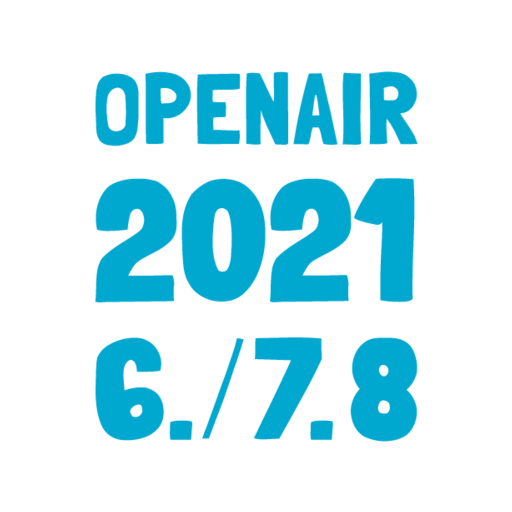
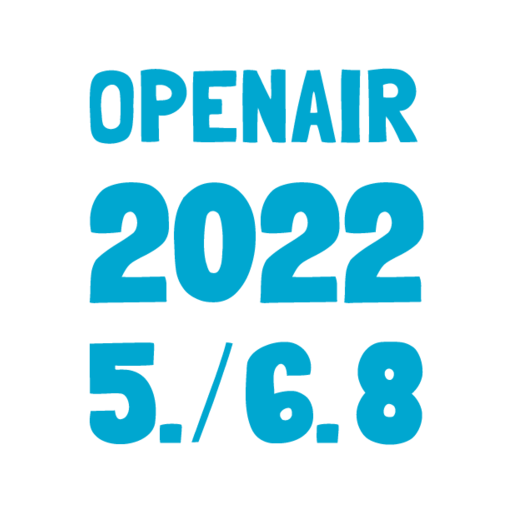
staging build

diff --git a/resources/views/partials/misc/claim.blade.php b/resources/views/partials/misc/claim.blade.php
@@ -1,3 +1,3 @@
 <div class="claim">
-<svg xmlns="http://www.w3.org/2000/svg" width="188.9" height="216.7" viewBox="0 0 188.9 216.7"><path fill="currentColor" d="M24.1 7.4c.3.6.5 1.2.6 1.8.1.6.2 1.2.3 1.9.1 1 .1 2 .1 2.9v2.9c0 2.1-.1 4.1 0 6.1 0 2 0 4-.2 6l-.2 1.9c-.1 1.4-.3 2.8-.6 4.2-.4 1.4-.9 2.7-1.6 3.8-.7.9-1.5 1.7-2.6 2.3-1.1.6-2.2 1-3.5 1.3-1.1.3-2.2.5-3.3.6-1.1.1-2.3.1-3.4 0l-2.4-.3c-.8-.1-1.5-.4-2.2-.7-.7-.3-1.3-.7-1.9-1.2-.6-.5-1-1.1-1.4-1.9-.6-1-.9-2-1.1-3.2-.2-1.1-.3-2.3-.3-3.4-.1-3.1-.2-6.1-.4-9.2-.1-3.1 0-6.2.2-9.3 0-1.8.3-3.5.7-5.3.4-1.8 1.2-3.4 2.4-4.7.4-.5.8-.9 1.4-1.2C6 2.1 7.4 1.6 8.9 1.3c1.5-.3 3-.4 4.5-.3 1.5.1 3 .3 4.4.8 1.4.5 2.7 1.1 3.9 2 1.1 1 2 2.2 2.4 3.6zm-6.3 14.4l-.1-4s0-.4-.1-1.2c-.1-.8-.1-1.5-.1-2.2-.1-1.1-.4-2.1-.9-3s-1.3-1.6-2.2-2c-.8-.3-1.6-.4-2.4-.2-.8.2-1.6.5-2.2 1-1.4 1.1-2.3 2.4-2.8 4.1-.3 1.5-.5 3.1-.6 4.7-.1 1.7 0 3.3 0 5 .2 1.4.3 2.8.4 4.2.2 1.4.4 2.8.8 4.1.4.8 1 1.4 1.7 1.8.7.4 1.6.7 2.4.7.9.1 1.7-.1 2.6-.4.9-.3 1.6-.8 2.2-1.4.4-.5.6-.9.8-1.2.2-.3.3-.6.3-1v-1.3c0-.5 0-1.2.1-2 0-.8.1-1.5.1-2.1v-3.6zm38-8.4v.9c0 .3 0 .5-.1.7-.2 1.9-.9 3.6-1.9 5.2s-2.3 2.9-3.7 4c-1.5 1.1-3.1 1.9-5 2.4-1.8.5-3.7.6-5.5.3 0 .6.1 1.1.1 1.6v6.3c0 1.7.1 4 .1 6.8v.1h-.2c-.6.2-1.2.3-2.1.3-.8.1-1.7.1-2.7.1h-2.7c-.9 0-1.7-.1-2.4-.2-.1-2.9-.2-6-.2-9.4V22.1 11.4c0-3.6-.1-7-.2-10.3 1.6-.4 3.4-.7 5.3-.9 1.9-.2 3.8-.2 5.7-.1 1.9.2 3.8.5 5.6 1 1.8.5 3.4 1.3 4.8 2.4 1.4 1 2.5 2.4 3.5 3.9 1 1.8 1.5 3.7 1.6 6zm-10.3-2.5c-1-.8-2.1-1.3-3.4-1.5-1.3-.2-2.6-.2-3.8.1l-.2.1v4.6c0 .8.1 1.5.1 2.3.1.7.2 1.4.4 2h.2c.6 0 1.3-.1 2-.1s1.4-.1 2.1-.1c.7-.1 1.4-.2 2-.4.6-.2 1.2-.6 1.7-1 .3-.4.5-.9.7-1.5.1-.5.2-1.1.1-1.7-.1-.5-.3-1.1-.6-1.5-.4-.6-.8-1-1.3-1.3zm38.9 23.4v.1c.1 1.3.1 2.6.1 3.9 0 1.4-.2 2.6-.5 3.8-4 0-8.1 0-12.2.1-4.2.1-8.1 0-11.9-.3 0-3.4 0-6.8-.1-10.2-.1-3.4-.1-6.7-.2-10.1v-10c0-3.3.2-6.7.4-10.1 1.5-.1 3.2-.1 5-.2 1.8-.1 3.6-.1 5.4-.1 1.8 0 3.6-.1 5.3-.1 1.7 0 3.2-.1 4.5-.1s2.3 0 3.1.1c.8 0 1.2.1 1.2.1.2 1.4.2 2.8.1 4.2-.1 1.4-.1 2.8-.1 4.2v.1c-1.3.3-2.5.4-3.8.5-1.3.1-2.6.1-3.9.1h-3.9c-1.3 0-2.6.1-3.9.2h-.2l-.1.1c0 1.1 0 2.3-.1 3.5-.1 1.2-.1 2.3.2 3.4l.1.1c1.2.1 2.4.1 3.6.1 1.2 0 2.4 0 3.7.1v.1c.2 1.3.3 2.7.2 4-.1 1.3-.1 2.7-.1 4.2-.6.2-1.3.2-2 .3h-2.2c-.7 0-1.3 0-1.9.1-.6 0-.9.1-1.1.3-.2 1.1-.3 2.4-.2 3.8.1 1.4.1 2.6.2 3.5L69 34c2.6 0 5.2.1 7.7.2s5.1.2 7.7.1zm26.5 8.3c-.8 0-1.7-.1-2.7-.1-1-.1-1.9-.1-2.7-.1-1.3-2.9-2.6-5.7-3.9-8.5-1.3-2.7-2.4-5.4-3.3-7.9l-.6-1.8c-.2-.4-.3-.8-.4-1.2-.1-.4-.2-.6-.3-.6 0 0-.1.5-.1 1.4-.1.9-.1 2.1-.1 3.6s-.1 3.1-.1 4.8V39.9c0 .8 0 1.6.1 2.3-.4.1-.9.2-1.3.2s-.9.1-1.3.1c-.9 0-1.9-.1-2.9-.2s-1.9-.2-2.8-.2V38c0-3.7 0-7.3-.1-10.7-.1-3.4-.1-6.9-.1-10.6 0-2.7 0-5.4.1-8.1.1-2.7.2-5.2.4-7.8.4-.1.8-.1 1.3-.2.5 0 .9-.1 1.4-.1h1.2c.6 0 1.1.1 1.7.1.6.1 1 .1 1.4.2.4.1.6.2.6.2.3.7.5 1.3.8 1.8.2.5.5.9.7 1.4.2.4.5.9.7 1.4.3.5.6 1.2.9 2 .1.2.3.6.5 1.1.3.6.6 1.2.9 1.9.4.7.7 1.5 1.1 2.3.4.8.8 1.5 1.1 2.2.3.6.6 1.2.9 1.7.2.5.4.7.4.7.1-.1.2-.5.3-1.2.1-.7.1-1.4.1-2.1 0-1.6 0-3-.1-4.4-.1-1.4-.1-2.7-.1-4.2V3.1c0-.8 0-1.8.1-2.7 1.3-.2 2.8-.4 4.2-.4 1.5 0 2.8.1 3.9.4v19c0 1.7.1 3.3.1 5V42c-.1 0-.3.1-.5.2-.4.4-.9.4-1.5.4zm26.5-21l4.4 20.6v.1c-1.2.2-2.5.3-3.9.3-1.4-.1-2.8-.2-4-.5h-.1c-.2-.6-.5-1.4-.7-2.2l-.6-2.7c-.2-.9-.4-1.8-.7-2.6-.2-.8-.5-1.5-.8-2.1-.5-.1-.9-.1-1.2-.1h-2.4c-.3.6-.5 1.4-.7 2.2-.2.8-.4 1.7-.5 2.7l-.6 2.7c-.2.9-.5 1.6-.8 2.3h-.2c-.3.1-1.1.1-2.4 0-1.3-.1-3.2-.1-5.9-.1l-.1-.1c.1-.3.2-1 .4-2.3.2-1.3.5-2.9.8-4.9s.8-4.3 1.3-6.9c.5-2.6 1.1-5.4 1.7-8.3.7-2.9 1.4-6 2.2-9.2.8-3.2 1.7-6.4 2.6-9.5.3 0 .6-.1.9-.1h3.2c.8 0 1.9-.1 3.2-.2.1.5.3 1.3.6 2.3.3 1 .5 2.2.8 3.5.3 1.3.6 2.7.9 4.2.3 1.5.7 2.9 1 4.3.3 1.4.6 2.6.9 3.8.3 1.2.5 2.1.7 2.8zm-6 3.8c-.4-3.4-.7-6-1-7.9-.3-1.9-.6-3.2-.8-3.8-.2-.7-.4-.8-.6-.4-.2.4-.4 1.1-.6 2.3s-.4 2.6-.6 4.3c-.2 1.7-.5 3.6-.7 5.6.7 0 1.4.1 2.1 0 .7 0 1.4-.1 2.2-.1zM154.3.8h1.4V1c0 3.4-.1 6.8-.1 10.2-.1 3.4-.2 6.9-.2 10.3-.1 3.4-.1 6.9 0 10.3 0 3.4.2 6.8.4 10.1-.3.3-1 .5-2 .6-1 .1-2.1.1-3.2 0-1.2 0-2.3-.1-3.3-.1-1.1-.1-1.8 0-2.2.1.3-3.5.4-7.1.4-10.7 0-3.6-.1-7.1-.2-10.6s-.2-7-.2-10.4c0-3.4.1-6.8.5-10.1V.5h1.2c.6.1 1 .1 1.3.1.7 0 1.5.1 2.4.1s2.1.2 3.8.1zm34.6 41.3c-1.3 0-2.9.1-4.5.1-1.7.1-3.4.1-5.2 0h-.1c-.4-.9-.9-2-1.5-3.2-.6-1.3-1.2-2.6-1.9-4s-1.5-2.7-2.3-4.1c-.8-1.3-1.7-2.5-2.5-3.5l-.1-.2c-.1.9-.2 2-.2 3.3 0 1.3 0 2.7.1 4.1.1 1.4.1 2.7.2 4 .1 1.3.1 2.3.2 3-.7.3-1.5.5-2.6.5-1.1.1-2.2.1-3.2.1h-4.5c.1 0 .1-.5.2-1.6 0-1.1.1-2.5.1-4.3v-6.1-7.1c0-2.5-.1-4.9-.1-7.3-.1-2.4-.1-4.6-.1-6.7 0-2-.1-3.8-.1-5.2-.1-1.4-.1-2.4-.2-2.9 2.2-.3 4.6-.6 7.3-.9 2.6-.3 5.4-.3 8.3.1 2.3.1 4.4.8 6.3 2 1.8 1.2 3.3 2.7 4.3 4.5 1 1.8 1.6 3.8 1.6 6 .1 2.2-.5 4.3-1.7 6.3-.7 1.4-1.7 2.6-3 3.5-1.2.9-2.8 1.5-4.7 1.6H178.7v.1c.8 1.5 1.7 2.9 2.7 4.3 1 1.4 1.9 2.9 2.9 4.3.9 1.5 1.8 2.9 2.7 4.5.6 1.7 1.3 3.2 1.9 4.8zM169 9.3c0 .5.1 1.1.1 1.7v3.9c0 .6.1 1.2.1 1.6h.1c.9.1 1.9.1 3 .2 1.1 0 2.1 0 3-.2.7-.2 1.3-.5 1.7-1.2.4-.6.7-1.3.7-2 .1-.7 0-1.5-.2-2.2-.2-.7-.6-1.3-1.2-1.7-.9-.8-2-1.2-3.3-1.1-1.3.2-2.6.5-4 1zM31.8 107.1c4.7-2.3 8.4-4.6 11.1-7 2.7-2.4 4.2-5.5 4.5-9.4.1-1.5 0-3.9-.1-7.2l-.1-.9v-.9c-.4-3.7-1.5-7.1-3.4-10.2-1.8-3-4.4-5.4-7.7-7.2-2.9-1.1-6.7-1.7-11.3-1.7-3.9 0-7.5.5-11 1.6s-6 2.6-7.7 4.6c-1.9 2.2-3.4 4.8-4.4 7.7s-1.5 6-1.5 9.2c0 2.1.2 4.4.7 6.7 1.9.6 3.9.8 6.1.8 3.9 0 7.8-.3 11.7-.8.3-3.6.8-6.5 1.5-8.8.7-2.2 2.2-3.4 4.3-3.4 1.2.1 2.2.8 2.9 2.1.7 1.3 1.1 2.8 1.1 4.5 0 1.4-.3 2.7-.8 4-.5 1.2-1.3 2.1-2.2 2.8-2.1 1.6-4.9 3.5-8.5 5.7-6.2 3.8-10.6 7.2-13.3 10.1-1.4 2.3-2.3 4.7-2.7 7.2-.4 2.5-.6 5.7-.7 9.8 0 2.1-.1 4.9-.4 8.4.3 0 .6 0 1.1.2.4.1 1.1.1 1.8.1l3.3-.2 38-.5c.8 0 1.3 0 1.5-.1.2-.1.3-.3.3-.6-.1-.6-.2-1.4-.2-2.5v-4.6l.3-1.6c0-2.2-.3-4.1-1-5.7-3.1 0-6.8.1-10.9.2-1.9.1-4.7.1-8.5.1-2.9 0-5.1 0-6.6-.1 1.3-2.7 2.5-4.6 3.4-5.8.9-1.2 2-2.3 3.3-3.1 1.2-.9 3.2-2 6.1-3.5zm66.9-22.2c-1.2-6.2-3.8-11.4-7.9-15.7-4.1-4.3-9.4-6.4-16-6.4-3.7 0-6.9.7-9.8 2.2-2.8 1.4-5.4 3.4-7.8 5.9L56 72.1l.1.1c-2.1 3.3-3.5 6.8-4.3 10.5-.8 3.7-1.2 7.7-1.2 11.8 0 1.5.1 3.4.2 5.7l.1 2.6c.1 5.4.5 9.8 1 13.3.6 3.5 2 6.8 4.2 10 2.2 3.1 5.5 5.5 10 7.2 2.3.9 5 1.3 8.2 1.3 5.5 0 10.1-2 13.8-5.9 3.8-3.9 6.6-8.8 8.5-14.7 1.9-5.8 2.8-11.5 2.9-17.1.1-4.3-.1-8.3-.8-12zm-18.9 18.2v-.1c-.1 1.1-.2 2-.2 2.8-.1 3.1-.4 5.3-.9 6.8-.4 1.5-.9 2.6-1.5 3.4-.6.8-1.5 1.2-2.5 1.2-.7 0-1.3-.1-1.9-.3h-.2c-.7-.4-1.5-1.8-2.2-4.2-.1-.4-.2-.9-.5-1.6v.1c-.9-3.5-1.3-7.3-1.3-11.6 0-2.9.2-6.3.5-10.1.2-1.6.4-3.1.6-4.6.2-1.5.5-2.4.9-2.9.3-.5.6-1 1.1-1.4s1-.6 1.6-.7c.2-.1.5-.1.8-.1 1.1 0 2.2.5 3.3 1.6.9 1.5 1.5 3.7 1.9 6.7.4 3 .6 6 .6 9.2 0 2.8 0 4.8-.1 5.8zm54.4 4c4.7-2.3 8.3-4.6 11-7 2.7-2.4 4.2-5.5 4.6-9.4.1-1.5 0-3.9-.1-7.2l-.1-.9v-.9c-.4-3.7-1.5-7.1-3.3-10.2-1.8-3-4.4-5.4-7.8-7.2-2.9-1.1-6.7-1.7-11.3-1.7-3.9 0-7.5.5-11 1.6s-6 2.6-7.7 4.6c-1.9 2.2-3.4 4.8-4.4 7.7s-1.5 6-1.5 9.2c0 2.1.2 4.4.7 6.7 1.9.5 3.9.7 6.1.7 3.9 0 7.8-.3 11.7-.8.3-3.6.8-6.5 1.5-8.8.7-2.2 2.2-3.4 4.3-3.4 1.2.1 2.2.8 2.9 2.1.7 1.3 1.1 2.8 1.1 4.5 0 1.4-.3 2.7-.8 4-.5 1.2-1.3 2.1-2.2 2.8-2.1 1.6-4.9 3.5-8.5 5.7-6.2 3.8-10.6 7.2-13.3 10.1-1.4 2.3-2.3 4.7-2.6 7.2-.4 2.5-.6 5.7-.7 9.8 0 2.1-.1 4.9-.4 8.4.3 0 .6 0 1 .2.4.1 1 .1 1.8.1l3.3-.2 38-.5c.8 0 1.3 0 1.6-.1.2-.1.3-.3.3-.6-.1-.6-.2-1.4-.2-2.5v-4.6l.1-1.6c0-2.2-.3-4.1-1-5.7-3.1 0-6.8.1-10.9.2-1.9.1-4.7.1-8.5.1-2.9 0-5.1 0-6.6-.1 1.3-2.7 2.5-4.6 3.4-5.8.9-1.2 2-2.3 3.3-3.1 1.3-.8 3.4-1.9 6.2-3.4zm44.2 27.7c5.1 0 7.6-.8 7.6-2.3-.1-1.5-.1-3.9-.1-7 0-6.8.2-14.4.5-22.7.4-10 .6-17.6.6-22.7 0-6.7-.2-12.5-.5-17.2-3.7-.3-7.7-.5-12-.5-2.4 0-5.3.1-8.6.2h-1.2c-.4.4-1.7 2.3-3.9 5.7s-4.2 6.8-6 10.2c-1.8 3.4-2.8 5.7-3 6.9 0 .4 1 .9 2.9 1.6 1.9.7 4.1 1.3 6.5 1.8 2.4.5 3.8.8 4.2.8 1.1 0 2-.6 2.9-1.7 0 2.9-.1 7.4-.4 13.5l-.2 3.2c-.4 8.5-.6 14.9-.6 19.2v10c3.7.7 7.4 1 11.3 1zM39.8 198.5l-.2-2c-.2-1.3-.5-2.6-1.1-3.9-.6-1.4-1.3-2.4-2-3.3-.7-.8-1.6-1.5-2.8-2.2-1.1-.7-2.3-1.2-3.5-1.6-.9-.3-2.1-.4-3.7-.4-2 0-4.4.3-7.1 1-1.2.3-2.1.6-2.7.8.1-1.4 0-2.8-.2-4.3l-.1-1.5c-.1-1.4-.2-2.5-.2-3.2 0-1.9.2-3.5.6-4.9.4-1.4 1-2.4 2-3.3.6-.6 1.2-.8 2-.8.6 0 1.2.4 1.9 1.1.9 1 1.5 3 1.6 5.9l3.2-.1H30c2.9 0 5.5-.2 7.8-.6.4-1.5.6-2.9.6-4.2 0-2.6-.7-5-2-7.3s-3.1-4.2-5.4-5.6c-2.3-1.4-5-2.1-8.1-2.1-4.4 0-8.6 1-12.7 2.9s-7 4.4-8.6 7.6l-.6 1.2c-.2.9-.4 2.1-.5 3.7v.7c0 .5-.1 1.2-.2 2.2C.2 180 0 184.1 0 187c0 7.9 1.1 14.4 3.2 19.6 2.1 5.1 5.9 8.2 11.5 9.2.8.1 2.2.2 4 .2 3.9 0 7.5-.7 10.8-2 3.3-1.3 5.9-3.3 7.8-5.9 1.9-2.7 2.7-5.9 2.5-9.6zm-12.6-1.7c.1.3.2.9.2 1.6v1c-.4 1.2-1 2-1.8 2.5-.6.4-1.4.6-2.2.6-.6 0-1.1-.1-1.7-.3-.4-.3-.7-.8-1-1.3-.3-.5-.5-1.1-.5-1.7s.2-1.2.6-1.7c.6-.8 1.4-1.5 2.3-1.9.9-.4 1.8-.6 2.7-.5.8.1 1.3.7 1.4 1.7zm16.7 18.9l12 .1.5-6.2c.1-1.5.2-2.5.2-3 0-.3 0-.6-.1-.9-.1-.3-.1-.4-.2-.5-.8-.4-2.7-.6-5.6-.6-3.1 0-5.4.3-6.9 1v.8l-.1 1v1.7l-.1 2c0 1.7.1 3.2.3 4.6zm22.6-1l4.5-12c.3-.8.6-1.7 1-2.5.3-.8.6-1.7.9-2.5 1.2-3 2.3-6 3.3-9s2.1-6 3.1-9l1.5-4.5c.5-1.5 1-3.1 1.6-4.6 1.2-3.7 2.1-6.4 2.7-8.2.6-1.8.9-3.1 1.2-3.9.1-.3.2-.6.2-.8.1-.2.1-.4.2-.7-.7-.3-1.9-.6-3.7-.7-.4 1.5-.8 3.1-1.2 4.6-.4 1.5-1.4 4.5-2.9 8.9s-2.5 7.4-3.1 9c-1.7 4.5-3 8.1-3.9 10.7-.9 2.7-1.8 5-2.5 7s-2.1 5.7-4 11.2c-.1.2-.2.7-.6 1.5-.3.8-.7 1.6-1 2.5-.3.9-.5 1.6-.7 2.1-.2.5-.3 1-.5 1.3 2.2-.1 3.5-.1 3.8-.2-.1.2 0 .1.1-.2zm27-46.3l21.3.7c-2.3 5-6.4 13.8-12.4 26.3-3.7 7.5-6.8 14-9.4 19.4 1.5.5 3.2.7 5.2.7 1.9 0 3.7-.1 5.1-.2h-.1l4.5-.2 2.6-4.6c7.4-13.3 12.5-22.6 15.3-27.9 2.8-5.3 5.1-10.1 7-14.2 0-2 0-3.5-.1-4.4-.1-.9-.1-2.2-.1-4 0-1.5 0-2.7.1-3.5-4.3-.5-9.6-.7-15.8-.7-2.7 0-6.2.1-10.4.2l-4.9.1-3.6.1c-1.9 0-3.3 0-4 .1v1.7l-.1 1.5c.2 3.7 0 6.7-.2 8.9zm33 47.3l12 .1.5-6.2c.1-1.5.2-2.5.2-3 0-.3 0-.6-.1-.9-.1-.3-.1-.4-.2-.5-.8-.4-2.7-.6-5.6-.6-3.1 0-5.4.3-6.9 1v.8l-.1 1v1.7l-.1 2c-.1 1.7 0 3.2.3 4.6zm61.8-38.8c.2-.9.3-1.9.3-3 0-3.4-.6-6.5-1.8-9.4-1.2-2.9-2.8-4.8-4.6-5.9l-.8-.5c-1.4-.8-2.8-1.3-4.4-1.6-1.5-.3-3.6-.5-6.1-.5-2.2 0-3.9 0-5.2.1-3.1.1-5.8 1-8.1 2.8-2.3 1.7-4 4-5.2 6.6-1.2 2.7-1.8 5.5-1.8 8.4 0 2.1.4 4.2 1.2 6.4.8 2.2 1.9 4.1 3.3 5.7-1.7 1.8-3 3.9-3.9 6.1-.9 2.3-1.4 4.5-1.4 6.8 0 2.1.4 4.2 1.1 6.3.7 2.1 1.7 3.9 3 5.5 1.4 1.8 3.6 3.3 6.5 4.3s5.9 1.6 9.1 1.6c2.9 0 5.6-.4 8.3-1.3 2.6-.9 4.6-2.1 6-3.6 1.5-1.7 2.7-3.7 3.5-5.9.8-2.2 1.2-4.4 1.2-6.6 0-2.2-.6-4.5-1.7-6.8s-2.6-4.3-4.5-5.9c3-2.6 5-5.8 6-9.6zm-19.2 1.7c-.9-.1-1.6-.5-2.1-1.3s-.8-1.7-.8-2.6c0-.3.1-.7.2-1.2.6-1.2 1.4-1.7 2.4-1.7.8 0 1.5.3 2.1.9.6.6 1 1.4 1 2.2 0 1-.2 1.9-.7 2.6-.6.8-1.3 1.2-2.1 1.1zm3.6 17.8c.1 1.1-.1 2-.6 2.8-.4.8-1 1.2-1.6 1.2l-1.2.1c-.9 0-1.6-.1-2.2-.4-.9-.4-1.4-1.4-1.4-2.9 0-1.2.3-2.3.9-3.2.6-.9 1.3-1.4 2.2-1.4 1.1 0 2 .4 3 1.2.2.2.4.5.7 1 .1.6.2 1.1.2 1.6z"/></svg>
+<svg xmlns="http://www.w3.org/2000/svg" width="400" height="450.7" viewBox="0 0 400 450.7"><path fill="#00a7d0" d="M50.2 15.4c.6 1.2 1 2.5 1.3 3.7.3 1.3.5 2.6.7 3.9.2 2 .3 4.1.3 6.1s0 4-.1 6.1c-.2 4.3-.3 8.6-.2 12.6.1 4.1 0 8.3-.4 12.5l-.4 4c-.2 2.9-.6 5.7-1.3 8.6-.7 2.9-1.8 5.5-3.3 7.9-1.4 2-3.2 3.5-5.5 4.7-2.3 1.2-4.6 2.1-7.2 2.8-2.3.7-4.6 1.1-6.9 1.2-2.3.2-4.7.2-7.1 0-1.7-.2-3.4-.4-5-.7-1.6-.3-3.1-.8-4.5-1.4-1.4-.5-2.7-1.4-3.9-2.4-1.1-1-2.1-2.3-2.8-4-1.1-2-1.9-4.2-2.3-6.6-.4-2.3-.6-4.7-.7-7.1C.7 61 .5 54.6.2 48.2c-.3-6.4-.2-12.9.2-19.3.1-3.7.6-7.4 1.4-11.1.9-3.7 2.6-7 5.1-9.9.8-.8 1.8-1.6 2.8-2.2 2.7-1.3 5.6-2.3 8.8-2.9 3.1-.6 6.3-.8 9.4-.7 3.1.2 6.2.7 9.2 1.7 3 .9 5.7 2.3 8 4.1 2.4 2.1 4.1 4.6 5.1 7.5zM37.1 45.3l-.3-8.3c0-.1-.1-.9-.2-2.5s-.2-3.1-.3-4.5c-.2-2.3-.8-4.4-1.9-6.3s-2.6-3.3-4.5-4.2c-1.6-.7-3.3-.8-5-.4-1.7.4-3.2 1.1-4.5 2.1-2.9 2.2-4.8 5-5.8 8.5-.7 3.1-1 6.4-1.2 9.8-.1 3.4-.1 6.9.1 10.3.4 2.9.7 5.8.9 8.8.2 3 .7 5.8 1.5 8.5.8 1.6 2 2.9 3.6 3.8 1.6.9 3.2 1.4 5 1.5 1.8.1 3.6-.1 5.4-.7 1.8-.6 3.3-1.6 4.5-3 .7-1 1.3-1.8 1.6-2.4.3-.6.5-1.3.6-2 .1-.7.1-1.6.1-2.6s0-2.4.2-4.1c.1-1.6.1-3.1.2-4.3 0-1.2.1-1.9.1-2.1v-5.9h-.1zm79-17.5v1.8c0 .5 0 1-.1 1.5-.5 3.9-1.8 7.5-3.9 10.8-2.1 3.3-4.7 6.1-7.8 8.3-3.1 2.3-6.5 3.9-10.3 5-3.8 1-7.6 1.2-11.5.6.1 1.1.1 2.3.1 3.4V64c0 2.1 0 4.9.1 8.4 0 3.5.1 8.3.3 14.2v.1l-.2.1-.2.1c-1.1.3-2.6.6-4.4.7-1.8.1-3.6.2-5.5.2s-3.8 0-5.7-.1c-1.9-.1-3.5-.2-4.9-.4-.2-6-.4-12.5-.4-19.4V46.4c0-7.3 0-14.8-.1-22.2 0-7.4-.2-14.6-.4-21.4 3.4-.9 7-1.6 11-2 4-.4 7.9-.4 11.9-.1 4 .3 7.8 1 11.6 2.1s7.1 2.7 10 4.9c2.9 2.2 5.3 4.9 7.2 8.2 1.9 3.2 2.9 7.2 3.2 11.9zm-21.5-5.2c-2-1.6-4.4-2.7-7.1-3.1-2.7-.5-5.4-.3-8 .3l-.4.1c.1 1.5.1 3 .1 4.7v4.9c0 1.6.1 3.2.2 4.7s.4 2.9.8 4.1h.4c1.3-.1 2.7-.1 4.2-.2 1.5 0 2.9-.1 4.4-.3 1.4-.2 2.8-.5 4.2-.9 1.3-.4 2.5-1.2 3.5-2.1.7-.9 1.1-1.9 1.4-3.1.3-1.1.3-2.3.1-3.4-.2-1.1-.6-2.2-1.2-3.2-.7-1-1.5-1.8-2.6-2.5zm81 48.7v.2c.2 2.6.2 5.3.1 8.2-.1 2.8-.5 5.5-1.1 7.9-8.3-.1-16.8 0-25.5.3-8.6.3-16.9.1-24.8-.6 0-7.1-.1-14.2-.2-21.2-.2-7-.3-14-.4-20.9-.1-7-.1-13.9 0-20.9.1-7 .3-13.9.7-21 3.2-.2 6.6-.3 10.4-.4l11.2-.3c3.8-.1 7.4-.2 10.9-.2 3.5-.1 6.6-.1 9.3-.1s4.9 0 6.5.1c1.6.1 2.5.2 2.5.2.4 2.9.5 5.8.3 8.7-.2 2.9-.3 5.8-.3 8.7v.1c-2.6.6-5.3.9-7.9 1-2.7.1-5.3.2-8 .1-2.7 0-5.4-.1-8.1-.1-2.7 0-5.4.1-8.1.4h-.4l-.1.1c.1 2.4 0 4.8-.3 7.3s-.1 4.8.4 7.1l.1.1c2.5.2 4.9.2 7.5.2 2.5 0 5.1 0 7.6.1v.1c.4 2.8.5 5.6.4 8.3-.2 2.8-.2 5.7-.1 8.7-1.2.3-2.6.5-4.2.6-1.6 0-3 .1-4.5.1-1.4 0-2.7 0-3.9.1-1.1.1-1.9.3-2.3.6-.4 2.4-.6 5-.4 8 .1 2.9.3 5.4.4 7.4l.1.1c5.4 0 10.7.1 16 .4 5.3.6 10.7.7 16.2.5zm55 17.3c-1.6 0-3.5-.1-5.6-.3-2.1-.2-4-.3-5.6-.3-2.7-6.1-5.4-11.9-8-17.6-2.7-5.7-4.9-11.1-6.8-16.4l-1.2-3.7c-.3-.9-.6-1.7-.9-2.5-.3-.8-.5-1.2-.7-1.2-.1 0-.2 1-.3 2.9-.1 2-.2 4.5-.3 7.5-.1 3-.1 6.4-.2 10.1 0 3.7-.1 7.2-.1 10.7v5.5c0 1.8 0 3.3.1 4.7-.9.2-1.8.4-2.7.5-.9.1-1.8.1-2.7.1-2 0-3.9-.1-6-.4-2-.2-3.9-.4-5.8-.4v-8.6c0-7.8-.1-15.2-.2-22.2s-.2-14.4-.2-22.1c0-5.6.1-11.2.2-16.7.2-5.5.4-10.9.9-16.1.8-.2 1.7-.3 2.6-.4.9-.1 1.9-.1 2.9-.1.5 0 1.3 0 2.5.1 1.1 0 2.3.1 3.4.2s2.1.3 3 .4c.9.2 1.3.3 1.3.5.6 1.5 1.1 2.7 1.6 3.7s1 1.9 1.4 2.8c.4.9.9 1.9 1.5 3 .5 1.1 1.2 2.5 1.9 4.2.2.4.5 1.2 1.1 2.3.6 1.1 1.2 2.5 2 4 .7 1.5 1.5 3.1 2.3 4.8.8 1.7 1.6 3.2 2.3 4.5.7 1.4 1.3 2.5 1.8 3.4.5.9.8 1.4.9 1.4.2-.2.4-1 .6-2.5.2-1.5.2-2.9.2-4.3 0-3.3-.1-6.3-.2-9.1s-.2-5.7-.2-8.7c0-1.7 0-3.5.1-5.2 0-1.8.1-3.7.2-5.7 2.8-.5 5.7-.7 8.8-.7 3 0 5.7.2 8.1.7v39.5c.1 3.4.1 6.9.1 10.4v10.6c0 2.4 0 4.7-.1 6.9 0 2.2-.1 4.5-.1 6.7 0 1.6 0 3.3.1 4.9 0 1.6.1 3.3.1 4.9V88c-.2.1-.5.2-1.1.4-.6.1-1.6.2-3 .2zm55.1-43.7l9.2 42.9v.2c-2.5.5-5.2.7-8.1.6-2.9-.1-5.7-.5-8.3-1h-.1c-.5-1.3-1-2.9-1.4-4.7-.4-1.8-.9-3.6-1.3-5.5s-.9-3.7-1.4-5.4c-.5-1.7-1-3.2-1.6-4.4-1.1-.2-1.9-.2-2.5-.2h-1.5c-.4 0-.9 0-1.5.1-.5 0-1.2.1-2.1.1-.6 1.3-1 2.8-1.4 4.6-.4 1.8-.7 3.6-1.1 5.5-.4 1.9-.8 3.8-1.2 5.6-.4 1.8-1 3.4-1.7 4.8l-.2.1-.2.1c-.7.2-2.3.2-4.9 0-2.6-.2-6.7-.2-12.3-.1l-.2-.1c.2-.6.4-2.2.9-4.8.4-2.6 1-6 1.7-10.2s1.6-9 2.6-14.4 2.2-11.2 3.6-17.4c1.4-6.1 2.9-12.5 4.5-19.1 1.6-6.6 3.4-13.2 5.4-19.8.6-.1 1.2-.1 1.8-.1h2.6c1.1 0 2.4 0 4.1-.1 1.7 0 3.9-.2 6.6-.4.2 1.1.6 2.7 1.2 4.8.5 2.2 1.1 4.6 1.7 7.4.6 2.7 1.3 5.7 2 8.8.7 3.1 1.4 6.1 2 9 .7 2.9 1.3 5.5 1.8 7.9.5 2 1 3.9 1.3 5.2zm-12.5 8c-.8-7-1.5-12.5-2.1-16.4-.6-3.9-1.1-6.6-1.6-8-.4-1.4-.9-1.7-1.3-.9-.4.8-.9 2.4-1.2 4.7s-.8 5.4-1.2 9c-.4 3.6-1 7.5-1.5 11.7 1.4.1 2.9.1 4.4.1 1.4-.2 2.9-.2 4.5-.2zM321 1.8h2.9v.5c0 7-.1 14.1-.3 21.2-.2 7.1-.4 14.3-.5 21.4-.1 7.1-.1 14.3-.1 21.4.1 7.1.3 14.2.7 21.1-.7.7-2 1-4.1 1.2-2.1.1-4.3.1-6.7.1-2.4-.1-4.7-.2-6.9-.3-2.2-.1-3.7-.1-4.5.2.6-7.4.8-14.8.7-22.2-.1-7.4-.2-14.8-.4-22.1-.2-7.3-.3-14.6-.4-21.7 0-7.2.3-14.2 1-21v-.5c.4-.1 1.2-.1 2.4.1 1.2.1 2.1.2 2.6.2 1.5.1 3.2.2 5.1.3 2 .1 4.8.1 8.5.1zm71.8 85.8h.1c-2.9 0-6.1.1-9.6.3-3.5.2-7.1.2-10.8-.1h-.1c-.8-1.9-1.8-4.1-3.1-6.7-1.2-2.6-2.6-5.4-4-8.2-1.5-2.9-3.1-5.7-4.8-8.5-1.7-2.8-3.4-5.2-5.2-7.4l-.2-.4c-.2 1.9-.4 4.2-.4 6.9s.1 5.6.2 8.5c.1 2.9.3 5.7.4 8.3.2 2.6.3 4.7.4 6.3-1.4.6-3.2.9-5.5 1.1-2.3.2-4.5.3-6.7.3s-4.2 0-6-.1c-1.8-.1-2.8-.1-3.3 0 .2 0 .3-1.1.4-3.4.1-2.2.1-5.2.1-8.9V62.9c0-4.8 0-9.7-.1-14.8 0-5.1-.1-10.2-.2-15.2s-.2-9.7-.3-13.9c-.1-4.2-.2-7.8-.3-10.8-.1-3-.3-5-.4-6.1C338 1.4 343 .8 348.5.3c5.5-.6 11.2-.5 17.2.1 4.8.2 9.2 1.6 13 4.2 3.8 2.5 6.8 5.7 9 9.4 2.1 3.8 3.3 7.9 3.4 12.5.1 4.5-1.1 8.9-3.6 13.2-1.6 2.9-3.6 5.4-6.2 7.4s-5.8 3.1-9.8 3.3h-.5v.1c1.7 3 3.6 6 5.6 9l6 9c2 3 3.8 6.1 5.6 9.3 1.9 3.2 3.4 6.5 4.6 9.8zm-41.3-68.2c.1 1.1.1 2.3.2 3.6 0 1.3.1 2.7.1 4.1 0 1.4 0 2.7.1 4 0 1.3.1 2.4.3 3.3h.1c1.9.2 3.9.3 6.1.4 2.2.1 4.3 0 6.3-.4 1.6-.3 2.8-1.1 3.6-2.4.9-1.3 1.4-2.7 1.5-4.2.2-1.5 0-3-.5-4.5s-1.3-2.7-2.5-3.6c-1.8-1.6-4.1-2.4-6.9-2.3-2.8.2-5.6.9-8.4 2zM63.5 225c9.3-4.5 16.7-9.1 22.1-13.9 5.4-4.7 8.4-11 9.1-18.9.1-3.1.1-7.9-.2-14.4l-.2-1.8v-1.8c-.8-7.5-3-14.2-6.7-20.3-3.7-6.1-8.8-10.8-15.5-14.3-5.9-2.3-13.4-3.4-22.6-3.4-7.7 0-15 1.1-22 3.2-6.9 2.1-12 5.2-15.4 9.2-3.9 4.4-6.8 9.5-8.8 15.3s-3 11.9-3 18.5c0 4.3.5 8.7 1.4 13.4 3.7.9 7.8 1.4 12.2 1.4 7.7 0 15.5-.5 23.4-1.6.5-7.2 1.5-13 3-17.5s4.3-6.8 8.6-6.9c2.4.3 4.3 1.7 5.8 4.3 1.5 2.6 2.2 5.6 2.2 9.1 0 2.8-.5 5.4-1.6 7.9s-2.5 4.3-4.4 5.5c-4.1 3.2-9.8 7-17 11.4-12.4 7.6-21.2 14.3-26.6 20.2-2.8 4.7-4.6 9.5-5.3 14.4-.7 4.9-1.2 11.4-1.3 19.6 0 4.3-.3 9.9-.8 16.8.5 0 1.2.1 2.1.3.9.2 2.1.3 3.7.3l6.6-.4 75.9-1c1.6 0 2.6-.1 3.1-.2s.7-.5.7-1.2c-.3-1.2-.4-2.9-.4-5V264l.2-3.2c0-4.4-.7-8.2-2-11.4-6.3 0-13.5.1-21.8.4-3.7.1-9.4.2-17 .2-5.7 0-10.1-.1-13.2-.2 2.7-5.3 4.9-9.2 6.8-11.7 1.9-2.5 4-4.5 6.5-6.2 2.6-1.6 6.7-3.9 12.4-6.9zm133.6-44.3c-2.4-12.4-7.7-22.8-15.8-31.3-8.1-8.5-18.8-12.8-31.9-12.8-7.3 0-13.8 1.4-19.5 4.3-5.7 2.9-10.8 6.8-15.5 11.9l-2.4 2.4.2.2c-4.1 6.5-7 13.5-8.7 20.9-1.7 7.4-2.5 15.3-2.5 23.7 0 3.1.1 6.9.4 11.4l.2 5.2c.3 10.8 1 19.7 2.1 26.7s3.9 13.6 8.3 19.9c4.4 6.3 11 11.1 20 14.4 4.5 1.7 10 2.6 16.4 2.6 10.9 0 20.1-3.9 27.7-11.8 7.5-7.9 13.1-17.6 16.9-29.3 3.7-11.6 5.7-23 5.8-34 .1-9-.4-17.1-1.7-24.4zm-37.8 36.4v-.2c-.3 2.1-.4 4-.4 5.6-.3 6.1-.9 10.7-1.8 13.6-.8 2.9-1.8 5.2-3.1 6.8-1.3 1.6-3 2.4-5.1 2.4-1.3 0-2.6-.2-3.8-.6h-.4c-1.5-.8-2.9-3.6-4.4-8.4-.1-.8-.5-1.9-1-3.2v.2c-1.7-6.9-2.6-14.6-2.6-23.2 0-5.9.3-12.6 1-20.2.4-3.2.8-6.3 1.3-9.2.5-2.9 1-4.9 1.7-5.8.5-1.1 1.3-2 2.3-2.8 1-.8 2-1.3 3.1-1.4.4-.1.9-.2 1.6-.2 2.3 0 4.5 1.1 6.6 3.2 1.7 2.9 3 7.4 3.9 13.3.9 5.9 1.3 12 1.3 18.3 0 5.7 0 9.6-.2 11.8zM268 225c9.3-4.5 16.7-9.1 22.1-13.9 5.4-4.7 8.4-11 9.1-18.9.1-3.1.1-7.9-.2-14.4l-.2-1.8v-1.8c-.8-7.5-3-14.2-6.7-20.3-3.7-6.1-8.8-10.8-15.5-14.3-5.9-2.3-13.4-3.4-22.6-3.4-7.7 0-15 1.1-22 3.2-6.9 2.1-12 5.2-15.4 9.2-3.9 4.4-6.8 9.5-8.8 15.3-2 5.8-3 11.9-3 18.5 0 4.3.5 8.7 1.4 13.4 3.7.9 7.8 1.4 12.2 1.4 7.7 0 15.5-.5 23.4-1.6.5-7.2 1.5-13 3-17.5s4.3-6.8 8.6-6.9c2.4.3 4.3 1.7 5.8 4.3 1.5 2.6 2.2 5.6 2.2 9.1 0 2.8-.5 5.4-1.6 7.9s-2.5 4.3-4.4 5.5c-4.1 3.2-9.8 7-17 11.4-12.4 7.6-21.2 14.3-26.6 20.2-2.8 4.7-4.6 9.5-5.3 14.4-.7 4.9-1.2 11.4-1.3 19.6 0 4.3-.3 9.9-.8 16.8.5 0 1.2.1 2.1.3.9.2 2.1.3 3.7.3l6.6-.4 75.9-1c1.6 0 2.6-.1 3.1-.2s.7-.5.7-1.2c-.3-1.2-.4-2.9-.4-5V264l.2-3.2c0-4.4-.7-8.2-2-11.4-6.3 0-13.5.1-21.8.4-3.7.1-9.4.2-17 .2-5.7 0-10.1-.1-13.2-.2 2.7-5.3 4.9-9.2 6.8-11.7 1.9-2.5 4-4.5 6.5-6.2 2.6-1.6 6.7-3.9 12.4-6.9zm100.8 0c9.3-4.5 16.7-9.1 22.1-13.9 5.4-4.7 8.4-11 9.1-18.9.1-3.1.1-7.9-.2-14.4l-.2-1.8v-1.8c-.8-7.5-3-14.2-6.7-20.3-3.7-6.1-8.8-10.8-15.5-14.3-5.9-2.3-13.4-3.4-22.6-3.4-7.7 0-15 1.1-22 3.2-6.9 2.1-12 5.2-15.4 9.2-3.9 4.4-6.8 9.5-8.8 15.3-2 5.8-3 11.9-3 18.5 0 4.3.5 8.7 1.4 13.4 3.7.9 7.8 1.4 12.2 1.4 7.7 0 15.5-.5 23.4-1.6.5-7.2 1.5-13 3-17.5s4.3-6.8 8.6-6.9c2.4.3 4.3 1.7 5.8 4.3 1.5 2.6 2.2 5.6 2.2 9.1 0 2.8-.5 5.4-1.6 7.9s-2.5 4.3-4.4 5.5c-4.1 3.2-9.8 7-17 11.4-12.4 7.6-21.2 14.3-26.6 20.2-2.8 4.7-4.6 9.5-5.3 14.4-.7 4.9-1.2 11.4-1.3 19.6 0 4.3-.3 9.9-.8 16.8.5 0 1.2.1 2.1.3.9.2 2.1.3 3.7.3l6.6-.4 75.9-1c1.6 0 2.6-.1 3.1-.2s.7-.5.7-1.2c-.3-1.2-.4-2.9-.4-5V264l.2-3.2c0-4.4-.7-8.2-2-11.4-6.3 0-13.5.1-21.8.4-3.7.1-9.4.2-17 .2-5.7 0-10.1-.1-13.2-.2 2.7-5.3 4.9-9.2 6.8-11.7 1.9-2.5 4-4.5 6.5-6.2 2.6-1.6 6.7-3.9 12.4-6.9zM30 409.9l-28.8.7C.4 415.2 0 419 0 422c0 6.2 1.7 11.4 5.1 15.6 3.4 4.2 7.8 7.4 13.4 9.4 5.6 2.1 11.6 3.1 18.1 3.1 6.3 0 12.4-1 18.4-2.9 6-2 11-4.8 15.2-8.5 4.2-3.7 6.8-8.1 7.9-13.3.7-4.9 1-9.9 1-15 0-12.1-2.6-22.8-7.9-32-5.3-9.2-13.2-14.8-23.8-16.8-2.6-.4-5.9-.7-9.9-.7l-5.2.2c-.8 0-1.3-.2-1.6-.5-.3-.3-.4-1-.4-1.9 0-1.1.1-2.1.2-3 2.4.3 7.2.5 14.7.5 6.3 0 12.6-.1 19-.3 6.3-.2 10.5-.5 12.4-.8v-2.2c0-2.1.1-3.9.2-5.4l.2-4.4c.2-4.3.3-7.3.3-9.1 0-2.8-.2-4.4-.5-4.7-1.8-.4-4.5-.7-8.1-.7-9.5 0-28.8.3-57.8 1-3 .1-6.6.2-10.6.2v29c.1 6.2.2 16.3.2 30.5 2.7.4 5.4.7 8.1.7l9.8-.3 4-.2c3.6-.2 6.3-.3 8.3-.3 3.1 0 6 .2 8.6.7h-.2c2.6.9 4.6 2.9 6.1 5.9 1.5 3 2.3 6.3 2.3 9.9 0 3.7-.8 7-2.4 9.8s-4 4.5-7 5.1c-1.9.4-3.5-.1-4.9-1.6-1.3-1.5-2.2-4-2.7-7.5v.2l-.5-1.8zm54.6 38.6l24.3.2 1-12.6c.2-3.1.3-5.2.3-6.1 0-.7-.1-1.3-.2-1.9-.1-.6-.2-.9-.3-1-1.6-.8-5.4-1.2-11.5-1.2-6.3 0-10.9.7-14 2v1.7l-.2 2v3.4l-.2 4c.1 3.7.3 6.8.8 9.5zm45.9-1.9l9.1-24.3c.7-1.7 1.3-3.4 1.9-5.1l1.8-5.1c2.4-6.1 4.6-12.1 6.7-18.2 2.1-6.1 4.2-12.2 6.3-18.4 1-3 2-6.1 3-9.2 1-3.1 2.1-6.2 3.2-9.3 2.5-7.4 4.3-12.9 5.4-16.6 1.1-3.6 1.9-6.3 2.4-7.8.2-.7.4-1.2.5-1.6.1-.4.3-.9.5-1.4-1.3-.7-3.9-1.1-7.6-1.3-.8 3.1-1.6 6.2-2.5 9.3-.9 3-2.8 9-5.8 18s-5.1 15.1-6.3 18.4c-3.4 9.1-6 16.3-7.9 21.7-1.9 5.4-3.6 10.1-5.1 14.2-1.5 4-4.2 11.6-8.2 22.7-.1.5-.5 1.5-1.2 3.1s-1.3 3.3-1.9 5.1c-.6 1.8-1.1 3.2-1.4 4.3-.3 1.1-.7 1.9-1 2.6 4.5-.1 7.1-.2 7.7-.3 0 0 .1-.3.4-.8zm137.2-33l-.3-4c-.3-2.6-1.1-5.3-2.3-8-1.2-2.8-2.6-5-4.1-6.7-1.5-1.6-3.3-3-5.6-4.4-2.3-1.3-4.7-2.4-7.2-3.2-1.8-.6-4.3-.8-7.4-.8-4.2 0-8.9.7-14.3 2-2.5.6-4.3 1.1-5.4 1.7.1-2.8 0-5.7-.3-8.8l-.2-3c-.2-2.9-.3-5.1-.3-6.4 0-3.8.4-7.1 1.2-9.9.8-2.8 2.1-5 4-6.7 1.1-1.1 2.5-1.7 4-1.7 1.2 0 2.5.7 3.9 2.2 1.9 2 3 6 3.2 12l6.6-.2h5.1c5.8 0 11.1-.4 15.8-1.2.8-3 1.2-5.8 1.2-8.4 0-5.3-1.3-10.2-4-14.9-2.6-4.7-6.3-8.4-11-11.3-4.7-2.9-10.2-4.3-16.3-4.3-8.9 0-17.5 1.9-25.9 5.8-8.4 3.9-14.2 9-17.4 15.4-.8 1.6-1.2 2.4-1.2 2.5-.5 1.8-.8 4.3-1 7.6v1.5c0 1-.1 2.5-.3 4.5-.7 11-1 19.4-1 25.3 0 16.1 2.1 29.3 6.4 39.8 4.3 10.4 12.1 16.7 23.4 18.7 1.7.2 4.4.3 8.1.3 8 0 15.3-1.3 22-4 6.7-2.7 12-6.7 15.8-12 3.7-5.3 5.3-11.7 4.8-19.4zm-25.5-3.4c.2.7.3 1.7.3 3.2v2c-.8 2.5-2 4.2-3.7 5.1-1.2.8-2.8 1.2-4.5 1.2-1.1 0-2.2-.2-3.4-.7-.8-.7-1.5-1.5-2.1-2.6-.6-1.1-.9-2.2-.9-3.5 0-1.2.4-2.4 1.2-3.5 1.2-1.7 2.8-2.9 4.7-3.8 1.9-.8 3.7-1.2 5.4-.9 1.7.3 2.7 1.5 3 3.5zm30.5 38.3l24.3.2 1-12.6c.2-3.1.3-5.2.3-6.1 0-.7-.1-1.3-.2-1.9-.1-.6-.2-.9-.3-1-1.6-.8-5.4-1.2-11.5-1.2-6.3 0-11 .7-14 2v1.7l-.2 2v3.4l-.2 4c.2 3.7.4 6.8.8 9.5zm125.5-78.7c.4-1.8.7-3.8.7-6.1 0-6.8-1.2-13.2-3.7-19-2.5-5.8-5.6-9.8-9.4-12l-1.7-1c-2.8-1.6-5.8-2.7-8.9-3.3-3.1-.6-7.3-.9-12.5-.9-4.4 0-7.9.1-10.6.2-6.3.2-11.7 2.1-16.3 5.6-4.6 3.5-8.1 8-10.6 13.5-2.5 5.4-3.7 11.1-3.7 17.1 0 4.3.8 8.6 2.5 13s3.9 8.3 6.7 11.6c-3.4 3.7-6 7.9-7.9 12.5s-2.9 9.2-2.9 13.8c0 4.3.7 8.5 2.2 12.7 1.5 4.2 3.5 7.9 6.1 11.2 2.9 3.7 7.3 6.6 13.1 8.8 5.8 2.1 12 3.2 18.5 3.2 5.8 0 11.4-.9 16.8-2.7 5.3-1.8 9.4-4.2 12.2-7.2 3-3.5 5.4-7.5 7.1-12 1.7-4.5 2.5-8.9 2.5-13.3 0-4.5-1.2-9.1-3.5-13.7-2.3-4.7-5.4-8.7-9.2-12 6.4-5.7 10.6-12.3 12.5-20zm-38.9 3.6c-1.8-.1-3.2-1-4.3-2.6-1.1-1.6-1.6-3.4-1.6-5.3 0-.7.1-1.5.3-2.4 1.1-2.4 2.8-3.5 4.9-3.5 1.6 0 3 .6 4.3 1.9 1.3 1.2 1.9 2.8 1.9 4.5 0 2-.5 3.8-1.5 5.3s-2.3 2.2-4 2.1zm7.2 36c.1 2.3-.3 4.2-1.2 5.7-.9 1.6-2 2.4-3.2 2.5l-2.5.2c-1.8 0-3.3-.3-4.5-.8-1.9-.8-2.9-2.8-2.9-5.9 0-2.5.6-4.6 1.9-6.5s2.7-2.8 4.4-2.8c2.1 0 4.2.8 6.1 2.4.4.3.9 1 1.3 2.1s.6 2.1.6 3.1z"/></svg>
 </div>

diff --git a/resources/views/partials/content/intro.blade.php b/resources/views/partials/content/intro.blade.php
@@ -2,6 +2,6 @@
   <h1>Äs Fäscht mit gueter Musig, feinem Food und friedliche Lüüt in Winti</h1>
   <h2>Mir gsehd üs am Füfte Sechste Achte!</h2>
   <p>Das <strong>Bambole</strong> ist zurück! Am 5. und 6. August 2022 gibt es auf dem Radhof in Winterthur-Wülflingen wieder das volle Programm. Diesmal hat das Bambole sogar Nachwuchs dabei: Mit dem Bambolini erwartet euch ein neues Kinderprogramm!</p>
-  <p>Weitere News folgen in den nächsten Wochen auf dieser Homepage und noch regelmässiger auf unserer <a href="https://www.instagram.com/openair_bamboler" target="_blank" title="Bamoble on Instagram">Instagram</a> oder <a href="https://www.facebook.com/bamboleopenair" target="_blank" title="Bamoble on Facebook">Facebookseite</a>.</p>
+  <p>Weitere News folgen in den nächsten Wochen auf dieser Homepage und noch regelmässiger auf <a href="https://www.instagram.com/openair_bambole" target="_blank" title="Bambole on Instagram">Instagram</a> oder <a href="https://www.facebook.com/bamboleopenair" target="_blank" title="Bambole on Facebook">Facebook</a>.</p>
   <p>Was Du aber bereits jetzt tun kannst: Klick doch auf Mach mit! und werde Teil des Bambole-Teams! Na mach! Es lohnt sich, versprochen.</p>
 </section>
